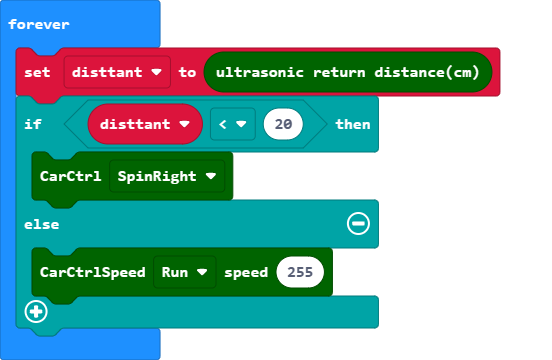
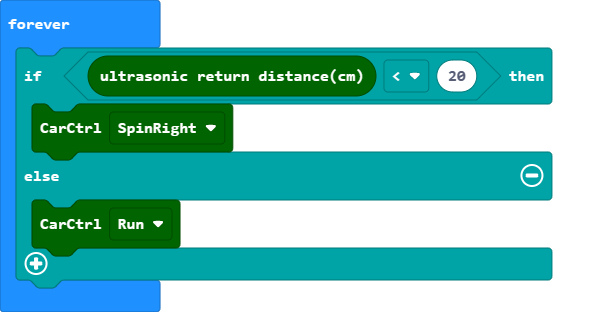
Update main.blocks, main.ts

diff --git a/main.ts b/main.ts
@@ -1,9 +1,7 @@
-let disttant = 0
 basic.forever(function () {
-    disttant = Tinybit.Ultrasonic_Car()
-    if (disttant < 20) {
+    if (Tinybit.Ultrasonic_Car() < 20) {
         Tinybit.CarCtrl(Tinybit.CarState.Car_SpinRight)
     } else {
-        Tinybit.CarCtrlSpeed(Tinybit.CarState.Car_Run, 255)
+        Tinybit.CarCtrl(Tinybit.CarState.Car_Run)
     }
 })
